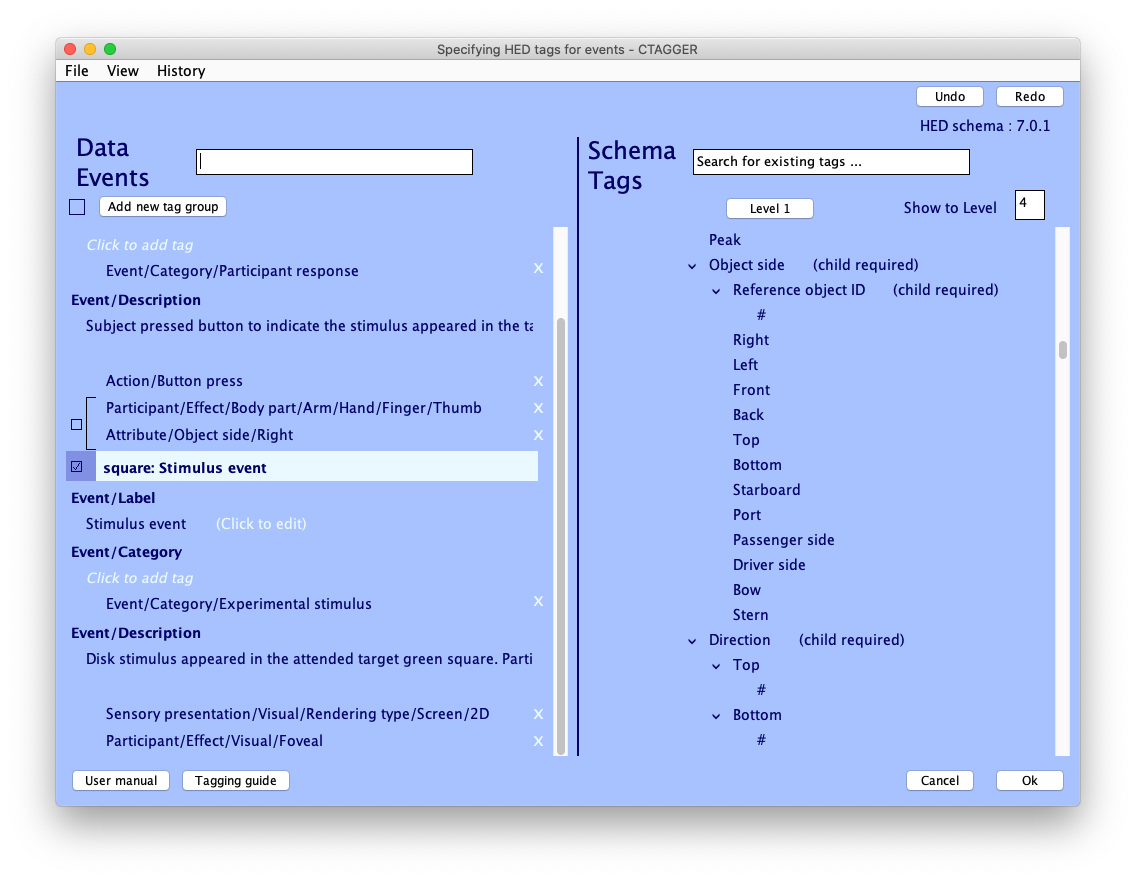
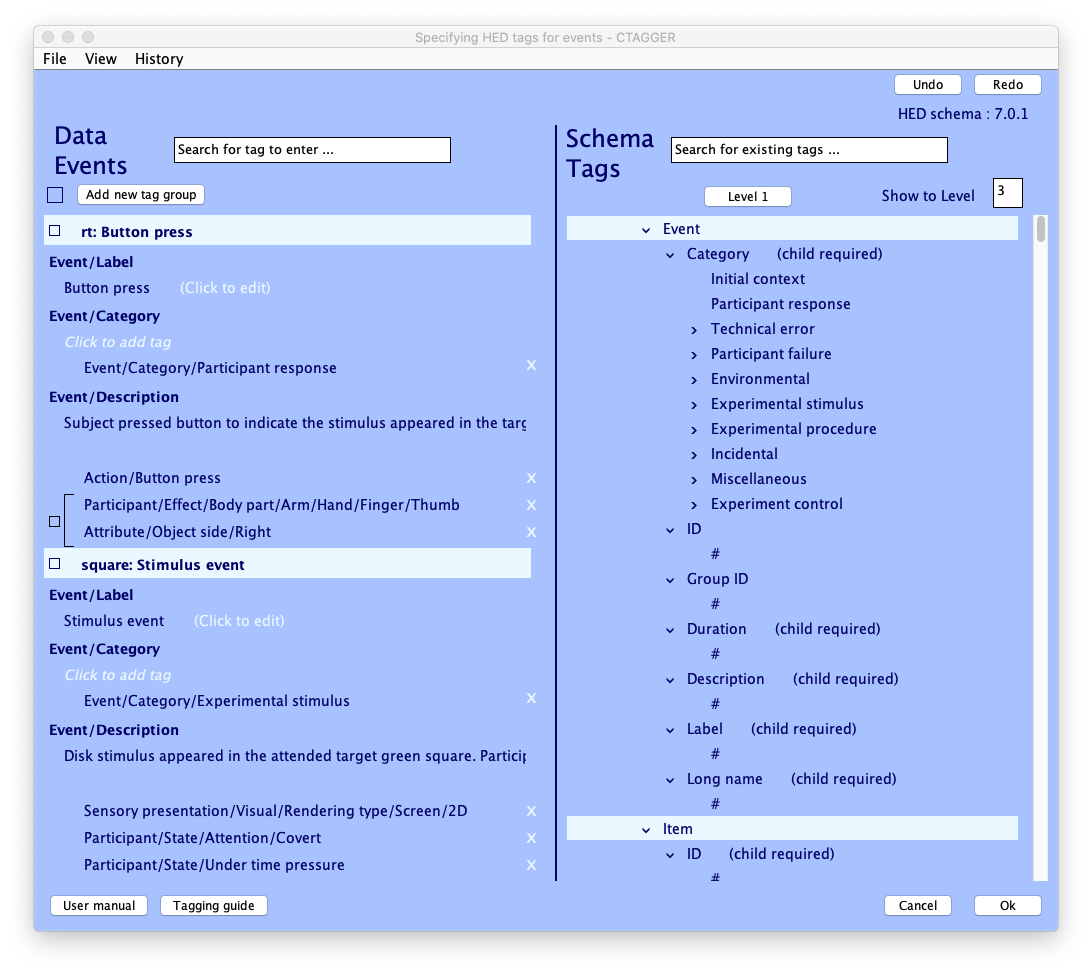
update I.3

Changed region(s): [[0.0311, 0.0307, 0.9963, 0.9818]]

diff --git a/quick-guide.md b/quick-guide.md
@@ -32,20 +32,20 @@
 
 [EEGLAB](https://sccn.ucsd.edu/eeglab/index.php) is a most widely used EEG software environment for analysis of human electrophsyioloigcal (and related) data. It combines both graphical and command-line user interfaces, making it friendly for both beginners who may who prefer a more flexible, automated way of analyzing data, and experts, who can easily extend the EEGLAB tool environment by making new EEGLAB compatible functions and/or publishing EEGLAB plug-in toolboxes that are then immediately available, through the EEGLAB graphic user interface (GUI) to anyone who downloads them.
 
-The plug-in *HEDTools* can be installed using one of the following ways:
+The plug-in *HEDTools* for EEGLAB can be installed using one of the following ways:
 
 1. From the EEGLAB Plug-in Manager: Launch EEGLAB and go to **File -> Manage EEGLAB extension**. The plug-in manager GUI will pop up. From this GUI look for and select the plug-in *HEDTools* from the main window, then click into the Install/Update button to install the plug-in.
 2. From the web: Download the zip file with the content of the plug-in *HEDTools* either from [GitHub](https://github.com/hed-standard/hed-matlab/blob/master/EEGLABPlugin/HEDTools2.5.0.zip) or from the EEGLAB [plug-ins summary page](https://sccn.ucsd.edu/eeglab/plugin_uploader/plugin_list_all.php). Decompress the zip file into the folder *../eeglab/plugins* and restart EEGLAB.
 
 #### <a name="I.2">2. Load dataset and start tagging</a>
 
-Once you have EEGLAB main window opened, load the dataset into the software. For this quick guide, we are using the EEGLAB tutorial dataset, which you can download [here](https://sccn.ucsd.edu/mediawiki/images/9/9c/Eeglab_data.set). Click on **File > Load existing dataset** and select the dataset. 
+For this quick guide, we are using the EEGLAB tutorial dataset, which you can download [here](https://sccn.ucsd.edu/mediawiki/images/9/9c/Eeglab_data.set). Once you have EEGLAB main window opened, load the dataset by selecting the **File > Load existing dataset** menu and select the dataset you just downloaded. 
 
-For a description of the dataset and the meaning of event codes, we check its description by selecting **Edit -> About this dataset**:
+We can read the description of the dataset and of the included event codes by selecting **Edit -> About this dataset**:
 
 <img src="images/I15about_this_dataset.png" alt="I15about_this_dataset" align="center" style="zoom:100%;" />
 
-Our goal is to use HED tags to describe events, so that anyone who will reuse the dataset in the future won't need to read the description again.
+Our goal is to use HED tags to describe events, so that anyone who will reuse the dataset in the future won't necessarily need to read the description to understand the event codes.
 
 #### <a name="I.4">3. Adding tags using CTAGGER</a>
 
@@ -53,7 +53,7 @@ From EEGLAB menu, select **Edit -> Add/Edit event HED tags** which will bring up
 
 <img src="images/image-20191218122111785.png" alt="image-20191218122111785" style="zoom:50%;" />
 
-We'll proceed with the default options which uses the latest version of the official HED schema. It also assumes that you are tagging the dataset for the first time and not re-using any previous tagging scheme. Lastly, you will use CTAGGER and event field selector panel for tagging. Hit **Ok**. 
+We'll proceed with the default options which use the latest version of the official HED schema. It's also assumed that you are tagging the dataset for the first time and not re-using any previous tagging scheme. Lastly, you will use CTAGGER and event field selector panel for tagging (more explanation below). Hit **Ok**. 
 
 A window will pop up to let you choose which event field to use for tagging:
 
@@ -61,29 +61,31 @@ A window will pop up to let you choose which event field to use for tagging:
 
 Fields listed in the select box are extracted from the EEG.event fields, ignoring fields "latency", "epoch", and "urevent". *Primary field* is the field used to specify what kind of event is occurring while the other fields are subfields used to specify conditions or subcategories within the event. In most cases with EEGLAB, "type" is the primary field which is also the first field we want to tag. Select "type" in the select box and click **Tag** which will open up CTAGGER:
 
-![image-20191218122404111](images/image-20191218122404111.png)
+![CTAGGER](images/CTAGGER.png)
 
-CTAGGER was built to facilitate the process of tagging. On the left side, we have the **Data Events** panel containining values of the selected event field and their associated tags. The right panel **Schema Tags** contains all available tags organized in the hierarchical structure as defined by the HED schema. The process of tagging is simply choosing tags from the schema to associate with an event value. 
+CTAGGER (Community Tagger) is a software written in Java to faciliate the process of adding tags to data events. Through its GUI, users can explore the HED schema, quickly look up and add tags/tag groups to the desired event codes, and use import/export features for reusage of tags.
 
-First we'll add a short label and a detailed description to the event codes using tag *Event/Label* and *Event/Description*. These tags are meant for human readability and will be ignored during machine processing. A restriction with HED tags is that tag value should not contain any comma, which is a common mistake with event description. Next, we want to generally categorize these events using tag *Event/Category*. "square" is a stimulus presentation event so we'll use tag *Event/Category/Experimental stimulus* and "rt" is subject's response so we use tag *Event/Category/Participant response*. 
+On the left side, we have the **Data Events** panel containining values of the selected event field and their associated tags. The right panel **Schema Tags** contains all available tags organized in the hierarchical structure as defined by the HED schema. The process of tagging is simply choosing tags from the schema to associate with an event value. The search bar in **Schema Tags** panel can be used to look up a tag and see its position in the HED schema. Users can also use the search bar in the **Data Events** panel to quickly look up and directly add tag to selected event value. 
+
+First we'll add a short label and a detailed description to the event codes using tag *Event/Label* and *Event/Description*. These tags are meant for human readability and will be ignored during machine processing. A restriction with HED tags is that tag value should not contain any comma, which is a common mistake with event description. Next, we want to generally categorize these events using tag *Event/Category*.  We'll use tag *Event/Category/Experimental stimulus* for the stimulus presentation events "square" and  *Event/Category/Participant response* for participant response events "rt". 
 
 ![alt text](images/event-label.gif)
 
 
 
-With those three information, the dataset can now be shared and researchers who re-use the dataset can quickly understand the meaning of the event codes. However, the power of HED is that you can finely detail the nature of the events so that analysis tools can automatically aggregrate events using tags with minimal human supervision later on. So let's keep tagging.
+With those three information, the dataset can now be shared and researchers who re-use the dataset can quickly understand the meaning of the event codes. However, HED also allow you to finely detail the nature of the events so that analysis tools can automatically aggregrate events using tags with minimal human supervision later on. So let's keep tagging!
 
-Let's start with partcipant responses events. We denote the type of action participant performed using *Action/* tags. In this case, it's *Action/Button press* since subject was asked to press a button when they see the target stimulus. We can go to further details in describing the body part affected by the action. In this case the subject was asked to use the right thumb to press the button. We'll first add a tag group to **rt**. A tag group contains a main tag and *Attribute/* tags that describe the main tag. Searching for keyword "thumb" in the HED schema shows *Participant/Effect/Body part/Arm/Hand/Finger/Thumb*. We add the tag to the group. Similarly, searching for "right" shows multiple results yet we care only about ones with *Attribute/* prefixes. *Attribute/Object side/Right* seems to be the right tag. Clicking on the tag brings us down to the location of the tag on the HED schema. Hovering over "Object side" shows the tag's description on tooltip: "Could be the left, right, or both sides of a person or a vehicle" which confirms our presumption. So we add the tag to the group and complete describing the participant response events.
+Let's start with partcipant responses events. We denote the type of action participant performed using *Action/* tags. In this case, it's *Action/Button press* since subject was asked to press a button when they see the target stimulus. We can go to further details in describing the body part affected by the action. In this case the subject was asked to use the right thumb to press the button. We'll first add a tag group to "rt". A tag group contains a main tag and *Attribute/* tags that describe the main tag. Searching for keyword "thumb" in shows *Participant/Effect/Body part/Arm/Hand/Finger/Thumb* so we add the tag to the group. Similarly, searching for "right" shows multiple results yet we care only about ones with *Attribute/* prefixes. *Attribute/Object side/Right* seems to be the right tag. Clicking on the tag brings us down to the location of the tag on the HED schema. Hovering over "Object side" shows the tag's description on tooltip: "Could be the left, right, or both sides of a person or a vehicle" which confirms our presumption. So we add the tag to the group and complete describing the participant response events.
 
 ![alt text](images/button-press.gif)
 
 
 
-We will next describing stimulus events. We'll describe how the sensory was presented to the participant using */Sensory presentation/* tag. In this case a visual stimulus was presented on a 2D screen so we use */Sensory presentation/Visual/Rendering type/Screen/2D*. We also want to describe the expected effect of the stimulus to the participant using *Participant/Effect/* tags. We want the subject to see the stimulus so we add tag *Participant/Effect/Visual*. Even better, we can use tag *Participant/Effect/Visual/Foveal* to denote that subject focused foveally on the stimulus presentation. 
+We will next describing stimulus events. We'll describe how the sensory was presented to the participant using *Sensory presentation/* tag. In this case a visual stimulus was presented on a 2D screen so we use *Sensory presentation/Visual/Rendering type/Screen/2D*. We also want to describe the expected effect of the stimulus to the participant using *Participant/* tags. Since subjects were asked to explicitly pay attention to the target square under the time pressure, we'll use tags *Participant/State/Attention/Covert* and *Participant/State/Under time pressure*. Here's what your CTAGGER should look like at this point:
 
 ![alt text](images/square-stimulus.png)
 
-We also want to describe the stimulus presentation itself. In this study, the stimulus is a filled circular disk appearing randomly in one of five green-outlined squares spaced evenly on a horizontal plane above the center fixation cross. For the tutorial sample dataset, we only include trials in which the disk appeared in the two left-most squares, annotated by event field "position". Thus to also include position information of the stimulus, we will switch to tag field "position". As we have finished tagging field "type", hit *Ok* on the current CTAGGER window. The field selection window becomes active again, and this time we choose "position" before hitting **Tag**. CTAGGER will appear again and this time with "position" event values "1" and "2", indicating stimulus appeared in the square at about 5.5 degree and 2.7 degree of horizontal visual angle respectively. 
+We also want to describe the stimulus presentation itself. In this study, the stimulus is a filled circular disk appearing randomly in one of five green-outlined squares spaced evenly on a horizontal plane above the center fixation cross. For the tutorial sample dataset, we only include trials in which the disk appeared in the two left-most squares, annotated by event field "position". Thus to also include position information of the stimulus, we will switch to tag field "position". As we have finished tagging field "type", hit **Ok** on the current CTAGGER window. The field selection window becomes active again, and this time we choose "position" before hitting **Tag**. CTAGGER will appear again and this time with "position" event values "1" and "2", indicating stimulus appeared in the square at about 5.5 degree and 2.7 degree of horizontal visual angle respectively. 
 
 ![](images/select-position.gif)
 
@@ -105,7 +107,17 @@ We'll add a second group to describe the circular disk. Similar to tagging the s
 
 ![](images/tag-circular-disk.png)
 
-You just finished tagging the dataset! *HEDTools* will generate the final HED string for each event by concatenating all tags associated with the event values of that event, seperated by commas, and put the string in a new field **usertags**. From now on you can use these tags to extract epochs for your analysis and  with other HED-annotated dataset you can do meta-analysis!
+Click **Ok** on CTAGGER window and **Ok** on the field selection window. A window will pop up asking if you want to save the **field map**. Field map is the mapping between all event codes and their associated HED tags that we just added. If saved, you can re-import it to another dataset with similar event codes. Click **Ok** when you're done. 
+
+![fieldmap](images/fieldmap.png)
+
+A last window will pop up asking what you would like to do to the newly tagged dataset and the old, untagged, dataset. You can choose to overwrite the old dataset with the tagged one or save new dataset as a separate file. Click **Ok** when you're done. 
+
+![new-set](images/newset.png)
+
+You just finished tagging! *HEDTools* generates the final HED string for each event by concatenating all tags associated with the event values of that event, seperated by commas, and put the string in a new field **usertags**. You can check this by opening up EEG.event in MATLAB variable window:
+
+![EEG.event](images/finish-1.png)
 
 #### <a name="I.4">4. Validating a HED-tagged dataset</a>
 
